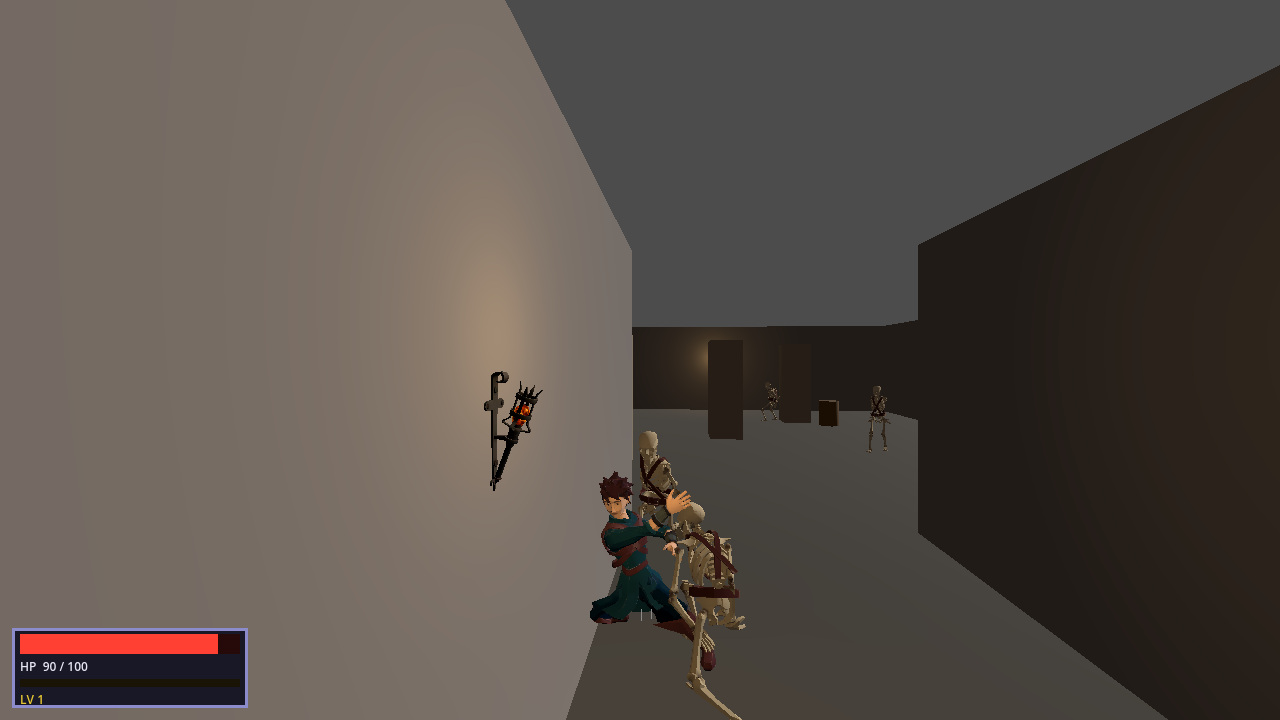
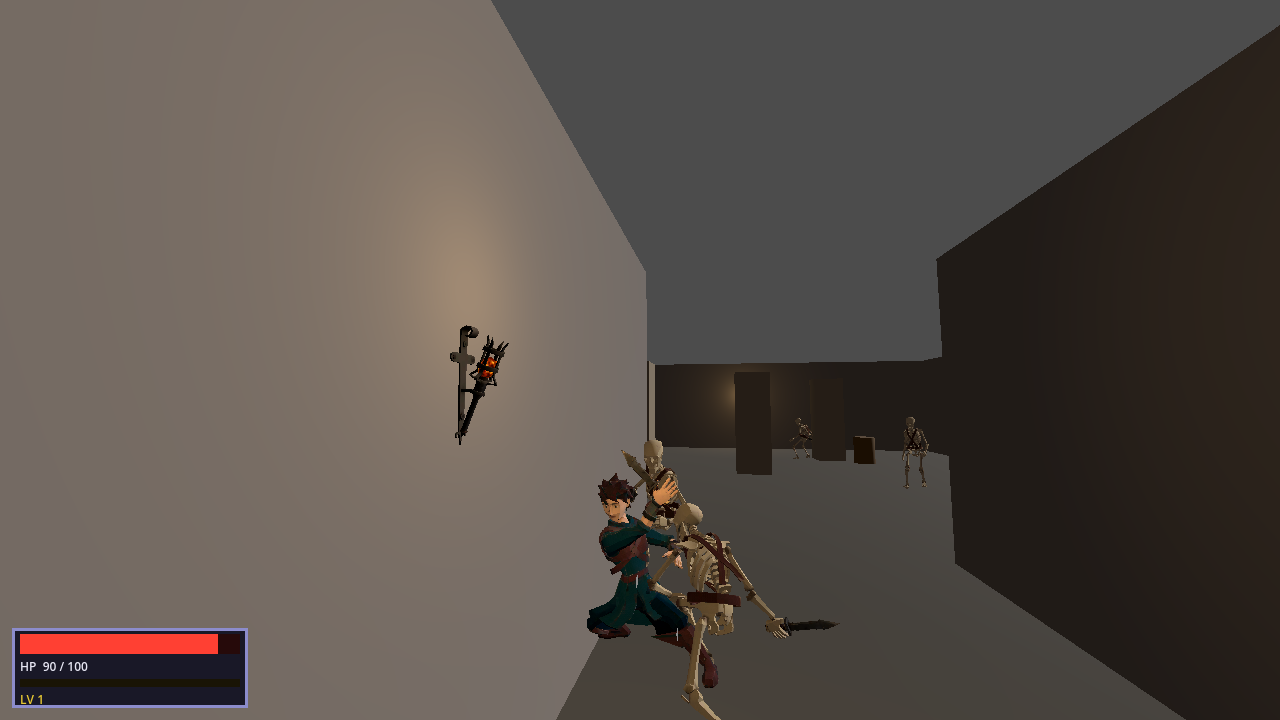
Put blades in the Front-file's and the player's hands
- scripts/combat/HeldProps.gd: the held_props attach logic, shared by
  BaseEnemy and now the player (socket_map + held_props exports;
  data/rigs/player_sockets.tres)
- scenes/props/HeldLevyBlade.tscn, generated by
  scripts/tools/make_held_props.gd: the Levy Blade seated in the fist in
  the hand bone's retargeted frame (the same on every character)
- Front-file levies hold it in hand_r; the player reuses it for now. The
  Back-file bow waits on the bow asset
- Review tools: --held, --yaw and --columns on the contact sheet; the
  capture kills the enemy nearest the player so its death is in view.
  Re-recorded sheets and in-game frames in assets/manifests/animation/

diff --git a/.claude/skills/asset-pipeline/SKILL.md b/.claude/skills/asset-pipeline/SKILL.md
@@ -88,7 +88,7 @@ The Tripo chain is **text-to-image → (optional refine) → image-to-multiview 
 
 `assets/animations/quaternius/UAL1_Standard.glb` and `UAL2_Standard.glb` (the Universal Animation Library 1 and 2, **Standard** tier, 43 clips each, non-root-motion) are committed. The extracted packs next to them are gitignored and have `.gdignore`. Both packs share one 65-bone Unreal-mannequin-style skeleton.
 
-**Retargeting.** There are two BoneMaps onto SkeletonProfileHumanoid, one per bone-naming scheme: `data/rigs/quaternius_bone_map.tres` (both packs) and `data/rigs/mixamorig_bone_map.tres` (Tripo rig v1.0 characters). Both are generated by `scripts/tools/make_bone_maps.gd`. Each GLB's `.import` sets `retarget/bone_map` on `Armature/Skeleton3D`, so Godot renames bones to profile names (`Hips`, `RightHand`, …) under a unique `%GeneralSkeleton`. Socket maps therefore use profile names; validate translates them back through the brief's `bone_map`.
+**Retargeting.** There are two BoneMaps onto SkeletonProfileHumanoid, one per bone-naming scheme: `data/rigs/quaternius_bone_map.tres` (both packs) and `data/rigs/mixamorig_bone_map.tres` (Tripo rig v1.0 characters). Both are generated by `scripts/tools/make_bone_maps.gd`. Each GLB's `.import` sets `retarget/bone_map` on `Armature/Skeleton3D`, and the characters also set `retarget/rest_fixer/fix_silhouette/enable`: the Barrow-levy is rigged in an A-pose and the library in a T-pose, and without it the levy's arms over-rotated down and behind the back in every clip. so Godot renames bones to profile names (`Hips`, `RightHand`, …) under a unique `%GeneralSkeleton`. Socket maps therefore use profile names; validate translates them back through the brief's `bone_map`.
 
 **Libraries.** `scripts/tools/build_animation_library.gd` resamples each clip at 30 fps with its speed and trim baked in, keeps only the characters' 23 bones (fingers dropped), saves each unique clip once in `data/animations/clips/`, and writes one AnimationLibrary per character: `player`, `levy_frontfile` and `levy_backfile` in `data/animations/*_library.tres`. Each character scene has an `AnimationPlayer` under its model (`root_node ..`) using its library. Godot's importer strips a `_Loop` suffix from clip names. Contact sheets: `scripts/review/anim_sheet.tscn` (→ `assets/manifests/animation/*_sheet.png`); in-game check: `scripts/review/level1_play_capture.tscn`.
 
@@ -101,15 +101,15 @@ The Tripo chain is **text-to-image → (optional refine) → image-to-multiview 
 | `dodge_roll` | player | `Roll` (UAL1) | trim 0.20–1.10 s, 1.8× → 0.5 s | dodge raised to 0.5 s at 8.4 m/s (the same 4.2 m) |
 | `attack_light` | player | `Sword_Regular_A` (UAL2) | | all 3 combo hits use A. **Future code change:** per-hit names for `_A`, `_B`, `_C` |
 | `attack_heavy` | player | `Sword_Regular_C` (UAL2) | | a spinning slash |
-| `death` | player | `Death01` (UAL1) | | |
+| `death` | player | `Death01` (UAL1) | in place | Hips/Root horizontal travel held at the first frame (the clip falls about 0.5 m backward) |
 | `idle` | Front-file | `Sword_Idle` (UAL1) | loop | reads hunched and forward, the art bible's Front-file posture |
 | `run` | Front-file | `Jog_Fwd_Loop` (UAL1) | 0.75×, loop | 4.0 m/s: **chase speed raised from 3.0 to 4.0** |
 | `attack` | Front-file | `Sword_Regular_A` (UAL2) | | |
 | `idle` | Back-file | `Idle_Loop` (UAL1) | loop | upright, the art bible's Back-file posture |
-| `run` | Back-file | `Walk_Formal_Loop` (UAL1) | 1.44×, loop | 1.4 m/s: **speed lowered from 2.5 to 1.4**; a drilled march, and the Back-file hold and shoot |
+| `run` | Back-file | `Walk_Loop` (UAL1) | 1.44×, loop | 1.4 m/s: **speed lowered from 2.5 to 1.4**. Not `Walk_Formal_Loop`, which clasps the hands behind the back |
 | `attack` | Back-file | `OverhandThrow` (UAL2) | | **STAND-IN for a bow draw.** No bow clip in either Standard pack; Quaternius's setup sheet shows `Bow_Aim_*` / `Bow_Notch` in a non-Standard UAL2 tier (not bought yet) |
 | `stagger` | both levies | `Hit_Chest` (UAL1) | | 0.33 s for the 0.4 s stagger |
-| `death` | both levies | `Death01` (UAL1) | | the enemy is freed after the clip (2.4 s), fading over the last 0.3 s through material alpha |
+| `death` | both levies | `Death01` (UAL1) | in place | the enemy's velocity and navigation stop the frame death starts; it's freed after the clip (2.4 s), fading over the last 0.3 s through material alpha |
 
 ## Resuming and idempotency
 

diff --git a/docs/art-bible.md b/docs/art-bible.md
@@ -149,7 +149,7 @@ Every asset gets a brief before any generation spend. Fields:
 - **Rig / attachment:** the new rig must map onto `SkeletonProfileHumanoid`; pipeline stage 4 proposes the `BoneMap`. Sockets `hand_r` (blade) and `hand_l` (bow) are mapped to bones **only** in `data/rigs/barrow_levy_sockets.tres`, which still names the Sketchfab bones: update that file for the new rig, and nothing else. Stage 4 fails until the sockets resolve.
 - **Rig order:** raw Tripo download → Tripo auto-rig (`v1.0-20240301`, humanoid) → clean (see the player brief). **Rigid rebind** (`rigid_parts: true`): each of the 35 separate bone pieces is bound at weight 1.0 to its nearest bone. **Known quirk:** Tripo puts the Foot bones at floor level, so the feet bind to ToeBase, which is Foot's child and follows it rigidly. Quaternius drives Foot, not the toes, so it doesn't read at gameplay distance.
 - **Scale & pivot:** 1.8 m tall, feet at origin, facing −Y in Blender. The model node keeps `Transform3D(-1,0,0,0,1,0,0,0,-1,0,-0.9,0)`.
-- **Animation:** the code plays `idle`, `run`, `attack`, `stagger`, `death` for **both** variants. The library must provide a melee `attack` for Front-file and a bow-draw `attack` for Back-file, remapped per variant. Built: each variant has its own library over the shared clips (asset-pipeline skill → Animation library). Front-file: `Sword_Idle` (hunched), `Jog_Fwd_Loop`, `Sword_Regular_A`. Back-file: `Idle_Loop` and `Walk_Formal_Loop` (upright), plus **`OverhandThrow` as a stand-in for the bow draw**. Neither Standard pack has a bow clip; they're in a UAL2 tier not bought yet.
+- **Animation:** the code plays `idle`, `run`, `attack`, `stagger`, `death` for **both** variants. The library must provide a melee `attack` for Front-file and a bow-draw `attack` for Back-file, remapped per variant. Built: each variant has its own library over the shared clips (asset-pipeline skill → Animation library). Front-file: `Sword_Idle` (hunched), `Jog_Fwd_Loop`, `Sword_Regular_A`. Back-file: `Idle_Loop` and `Walk_Loop` (upright), plus **`OverhandThrow` as a stand-in for the bow draw**. Neither Standard pack has a bow clip; they're in a UAL2 tier not bought yet.
 - **Prompt:** FORM block + *"A humanoid skeleton in Old Bone, stained peat-brown at the joints, with a clearly readable skull and ribcage, wearing a rotted leather harness in Saddle Leather: a belt at the waist and two straps crossing the chest and back. Empty hands, T-pose."*
 - **Accept when:** the retarget plays all 5 clips on both variants; Back-file is distinguishable from Front-file at 15 m in the Level 1 corridor with props hidden; budget still met.
 - **Cost:** 1 Tripo generation, plus one per rejected attempt. The Back-file texture and the bone map are manual or scripted work.

diff --git a/CLAUDE.md b/CLAUDE.md
@@ -299,7 +299,7 @@ Every generated or sourced mesh goes through `python3 scripts/pipeline.py <asset
 - **Bone geometry in scripts:** measure a bone as its joint span (head to its child's head), never head to tail; Blender's glTF importer invents display tails, and they differ between files
 - **Rig model follows body plan, not recency:** Tripo rig `v1.0-20240301` (server default) is the humanoid rigger and the pipeline default; `v2.5-20260210` is the creature rigger (quadruped, hexapod, octopod, serpentine, aquatic, avian), passed with `--rig-model` (e.g. for the Sett-boar)
 - Character models must use a humanoid skeleton that maps onto Godot's `SkeletonProfileHumanoid`, so the shared library can be retargeted through the `BoneMap` in the GLB's import settings. If a model has no such skeleton, stop and ask the user how it should be rigged
-- **Socket bones:** every new character needs its socket bones (`hand_r`, `hand_l`, …) mapped in a `SocketMap` resource at `data/rigs/<rig>_sockets.tres`, assigned to the scene's `socket_map` export. That file is the single place to update when a rig changes or is regenerated. Never write bone names in scripts, scenes or call sites; enemies attach props via `held_props` (socket → PackedScene)
+- **Socket bones:** every new character needs its socket bones (`hand_r`, `hand_l`, …) mapped in a `SocketMap` resource at `data/rigs/<rig>_sockets.tres`, assigned to the scene's `socket_map` export. That file is the single place to update when a rig changes or is regenerated. Never write bone names in scripts, scenes or call sites; characters (enemies and the player) attach props via `held_props` (socket → PackedScene) through `scripts/combat/HeldProps.gd`, with alignment in a `scenes/props/Held*.tscn` wrapper
 - Game code plays animations by name, so retargeted clips must be exposed under these names — player: `idle`, `run`, `dodge_roll`, `attack_light`, `attack_heavy`, `death`; enemies: `idle`, `run`, `attack`, `stagger`, `death`
 
 ### Manual MCP Editing (for modifications, not base meshes)

diff --git a/docs/decisions.md b/docs/decisions.md
@@ -35,6 +35,10 @@ Settled choices with their one-line reasons. Read this before re-opening any of 
 - **The Back-file bow draw is a stand-in** (`OverhandThrow`). The bow clips are in a non-Standard UAL2 tier; buying it waits until the slice has been judged in motion (it affects 2 of 7 enemies).
 - **Enemies are freed after the death clip (2.4 s) and fade over the last 0.3 s through material alpha on per-enemy material copies.** The Compatibility renderer doesn't draw `GeometryInstance3D.transparency` (a 0.5 test rendered fully opaque).
 
+- **Death collapses in place.** The levies' fling had two causes: `Death01` moves the hips about 0.5 m backward, and the enemy kept its knockback velocity through the DEAD state (it still called `move_and_slide()`). The build tool now holds the Hips/Root horizontal position (`in_place`) for death, and `BaseEnemy` zeroes velocity and stops navigation when death starts.
+- **Fix Silhouette on the characters' imports** (`retarget/rest_fixer/fix_silhouette/enable`). The A-pose levy retargeted from the T-pose library over-rotated its arms down and behind the back; attaching the weapons didn't help. With it on, the idle, stagger and run arms sit in front. `Walk_Formal_Loop` really is hands-behind-back, so the Back-file walks with `Walk_Loop` (same native speed).
+- **Held props through one helper** (`scripts/combat/HeldProps.gd`), used by `BaseEnemy` and now the player (`data/rigs/player_sockets.tres`). Alignment lives in wrapper scenes (`scenes/props/Held*.tscn`, generated by `scripts/tools/make_held_props.gd`) in the hand bone's retargeted frame, which is the same on every character. The player reuses the Levy Blade for now.
+
 ## Observed Tripo costs
 
 - P1 text-to-3D with a standard texture: **40 credits** (twice: attempts 1 and 2). The pricing page's 20 was the H-series price, so it undercounted P1 by 2×. The CLI's `credits_consumed` matched the balance difference every time.
